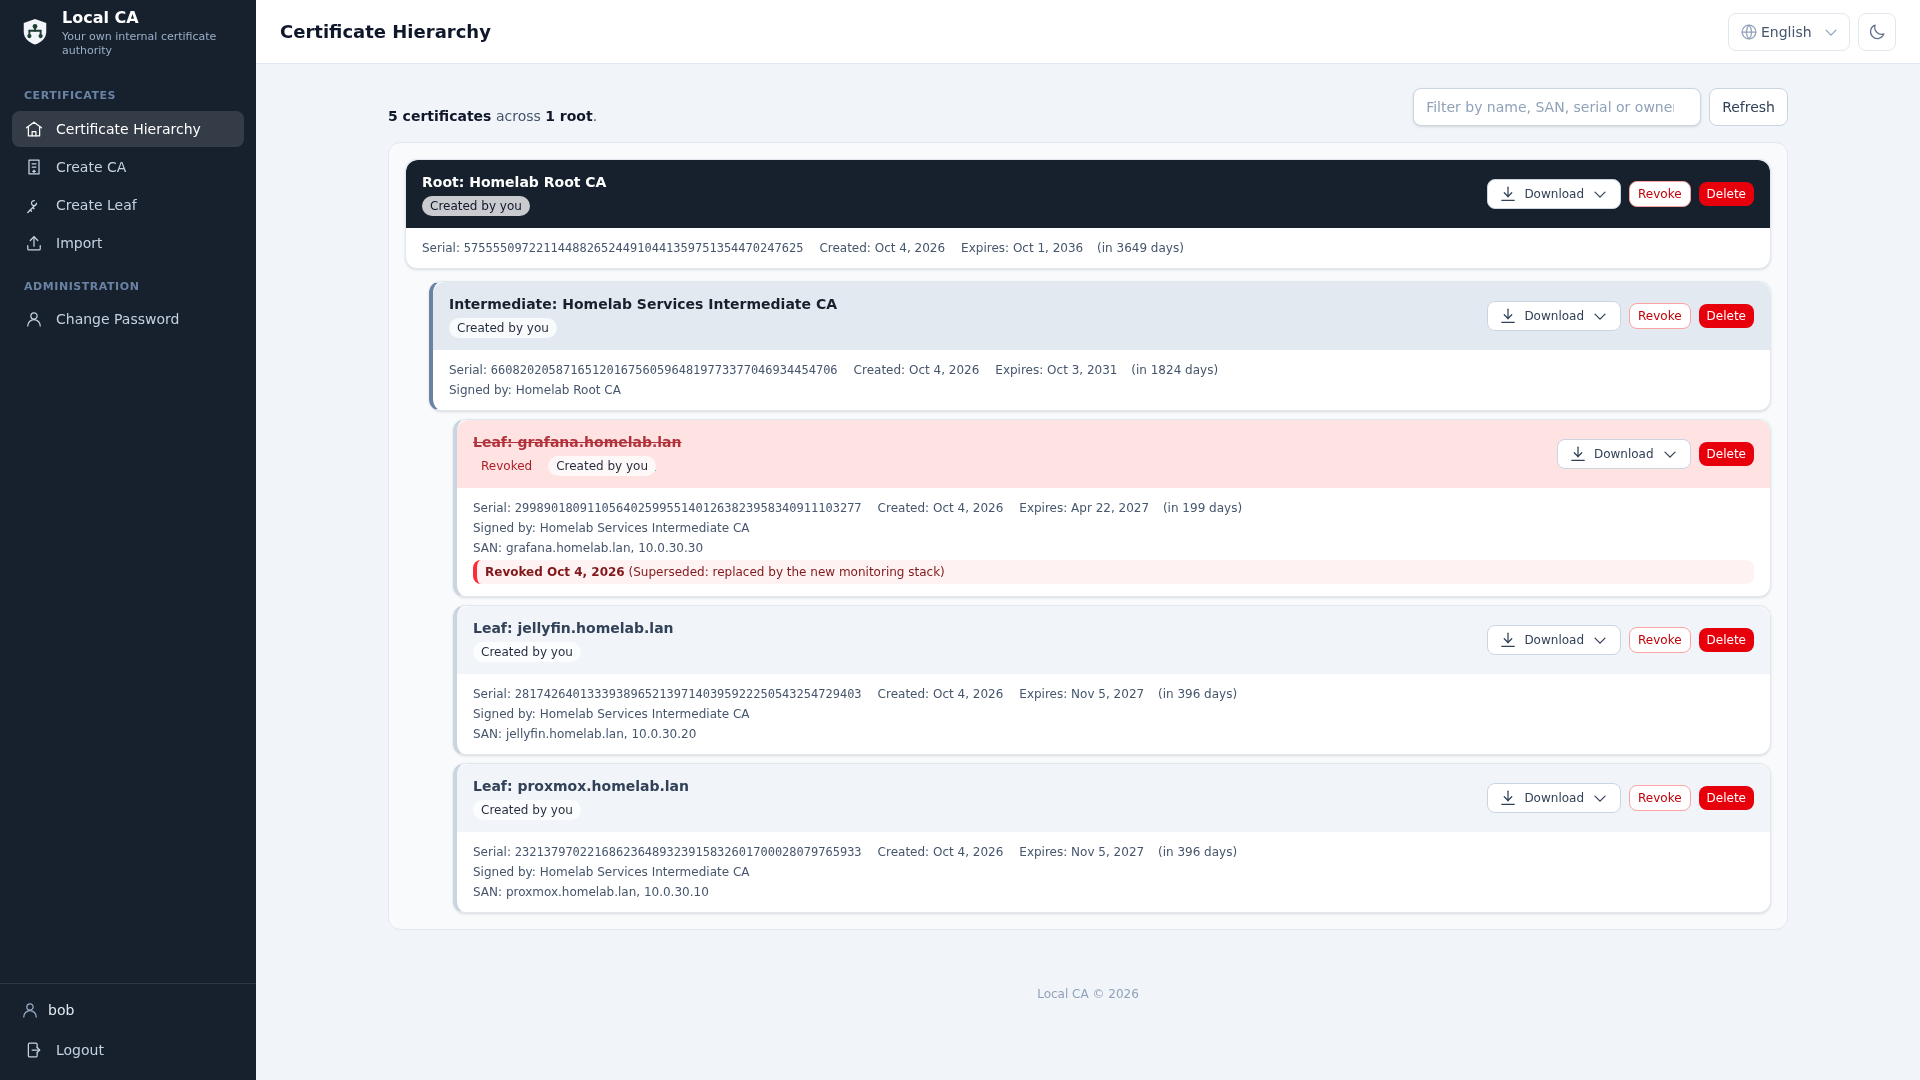
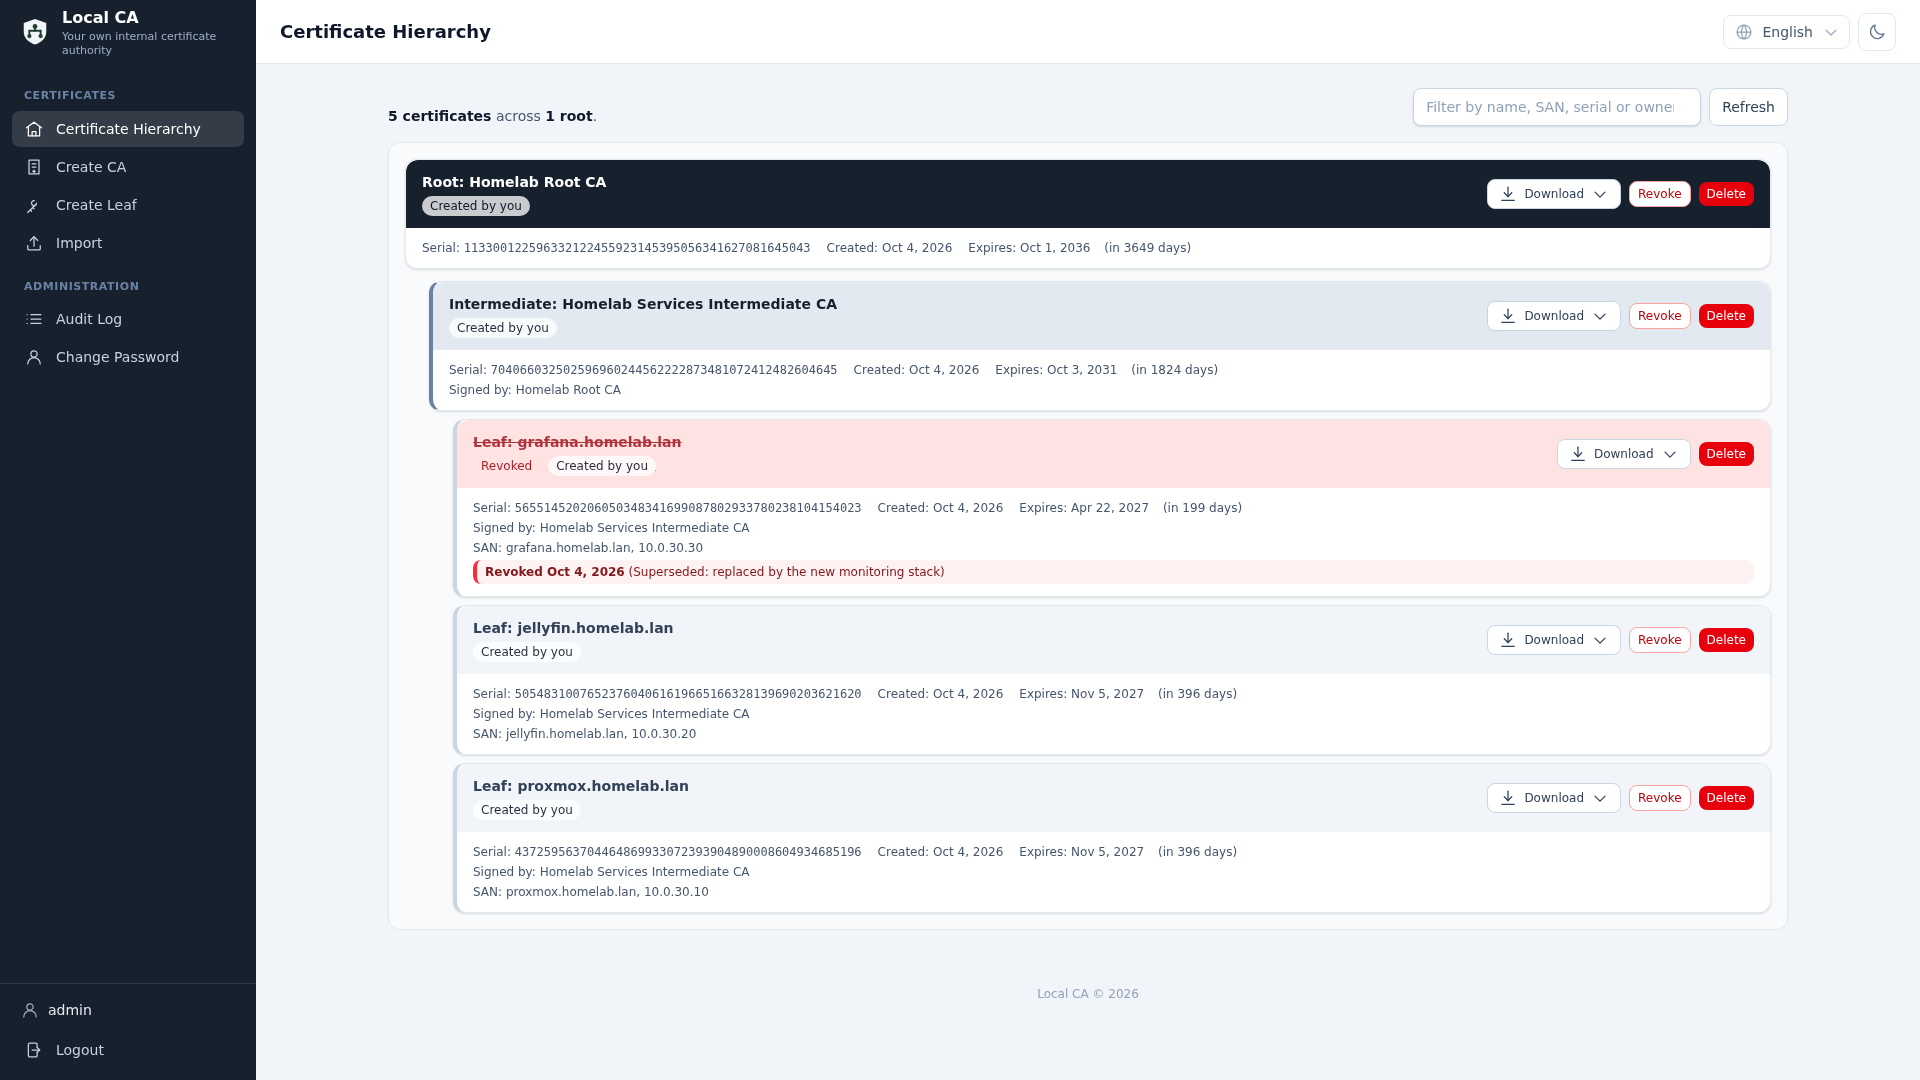
chore(dev): own the demo hierarchy, and re-shoot the screenshots
The seeded hierarchy the README shows now belongs to `admin` instead of `bob`:
whoever opens the dev instance sees it on the account they log in with, and can
export its private keys without hunting for a second account's vault password.
On the scratch instance the vault password is the account password, so admin's
`localca-dev-pass-123` opens it. `alice` and `bob` are left without a vault root
key, which is what makes the first-time "choose a vault password" dialog
reachable from the UI.

The seed script now clears the whole board when it runs as staff, because the
fixture is meant to be the entire tree in the screenshots -- a root belonging to
another account would sit beside it and turn the picture into a different one.

Screenshots re-taken (1920x1080) against the new owner and the self-drawn
language switch: hierarchy light, the Chinese hierarchy (captured through the
new list, with the switch's toast waited out), create-ca, create-leaf, import
and the dark hierarchy. The acceptance harness restored the emulated viewport
without waiting for the resize event to land, which the language list (it closes
on resize) turned into an intermittent failure; it now waits for the event.

diff --git a/DECISIONS.md b/DECISIONS.md
@@ -18,6 +18,7 @@
 | D35 | 顶层 shell 挂**唯一一个**「密钥库解锁」对话框，由 vault store 驱动；各视图不再各带一份 | agent | 签名、导出、轮换都会撞上锁定状态，原来每个视图都复制一遍 open/retry 逻辑。现在 `vault.requestUnlock(reason, retry)` 一处收口，`ApiError.vaultLocked` 一处识别 |
 | D36 | 下载菜单用 **Teleport + fixed 定位**，不用 `absolute` | agent | 它所在的卡片有 `overflow-hidden`（为了圆角标题条），表格又 `overflow-auto`——`absolute` 菜单只显示第一行就被裁掉（截图已证实）。`:style` 在这里只传几何坐标，与「配色不许走 style」的约定不冲突 |
 | D37 | **管理员也导不出别人的私钥**，且这个拒绝要有自己的文案 | agent 默认 | 密钥库根密钥是**按账号**包裹的，没有托管/代管一说，用调用者自己的根密钥去解别人的密文必然失败。改之前它撞成 `Ciphertext failed authentication: wrong key or tampered data.`（409）——听起来像数据损坏，实际是权限边界。现在只对 `is_wrapped` 的证书先判归属并返回「属于其他账号」；`can_manage`（吊销/删除）保持原样，legacy 明文密钥也不受影响 |
+| D38 | 开发实例上**密钥库口令 = 账号口令**（`admin`/`alice`/`bob` 统一为 `localca-dev-pass-123`） | 用户要求 | 密钥库口令在产品里是真实存在的独立秘密（首次解锁自设、不可找回），但 scratch 实例上「三个账号三个没人记得的口令」只会把操作者锁在自己的演示数据外面——验收时就是这么被卡住的。`rewrap_root_key` 只重包根密钥，证书不用动；重建 dev 库后新账号的首次解锁也按这个值设置（D19） |
 
 > 顺带修掉一个真 bug：`api/client.js` 的 `download()` 只接受 `FormData`，传普通对象时请求体变成字符串 `"[object Object]"`，后端一律 400——**未加密私钥导出在浏览器里其实是失败的**，只有把文件真的落到磁盘才发现。现在 `download()` 与 `request()` 用同一套 body 规则。
 >
@@ -109,7 +110,7 @@
 | --- | --- | --- | --- |
 | D17 | Vite 产物改为**内容哈希**命名（`assets/[name]-[hash].js|css`） | 用户要求 | 此前产物名固定为 `app.js`，重建后浏览器仍用缓存，新界面必须硬刷新才出现；哈希后旧 URL 直接 404，不可能再命中陈旧缓存（`index.html` 由 Vite 生成并带哈希名，Django 的 `spa_index` 直接渲染它，所以不需要 manifest） |
 | D18 | README 配图全部换成 fork 后的真实界面：无头 Chrome 截取、**1920×1080**、存 `screenshots/`，并删除 4 张上游旧图 | 用户要求 | 旧图是上游 django+bootstrap 模板时代的界面，其中一张还是与本项目无关的 Safari/AdGuard 截图。新图为 `hierarchy-light`（首图）、`create-ca`、`create-leaf`、`import`、`hierarchy-dark` |
-| D19 | 截图用的演示数据建在 dev 库里：`bob` 用户 + `Homelab Root CA` → `Homelab Services Intermediate CA` → 3 张叶证书（`grafana` 已吊销）；`bob` 的密钥库口令按脚本里的常量设置（见下） | agent | 需要「私钥已加密」的真实观感；`bob` 原本没有密钥库，解锁时按设计自动创建。这批数据可以用 UI 的 Delete 清掉，不影响 `admin` 原有证书 |
+| D19 | 截图用的演示数据建在 dev 库里：**`admin`** + `Homelab Root CA` → `Homelab Services Intermediate CA` → 3 张叶证书（`grafana` 已吊销）；脚本以 staff 身份运行时**先清空整个盘面** | agent（属主 2026-10-04 由 `bob` 改为 `admin`） | 需要「私钥已加密」的真实观感。属主改成 `admin` 是因为验收者用自己登录的账号就该能直接导出私钥，不必切到第二个账号去找口令；密钥库口令见 D38。`is_staff` 时清空全部是为了**可复现**——残留别人的根，截图就变成另一张图了 |
 
 > 本轮发现一个真实的**开发流程陷阱**（已写进 README 的开发步骤）：Django 5.2 默认使用
 > **cached template loader**，依赖 autoreload 在模板文件变化时清缓存；而本项目的 devctl 命令是
